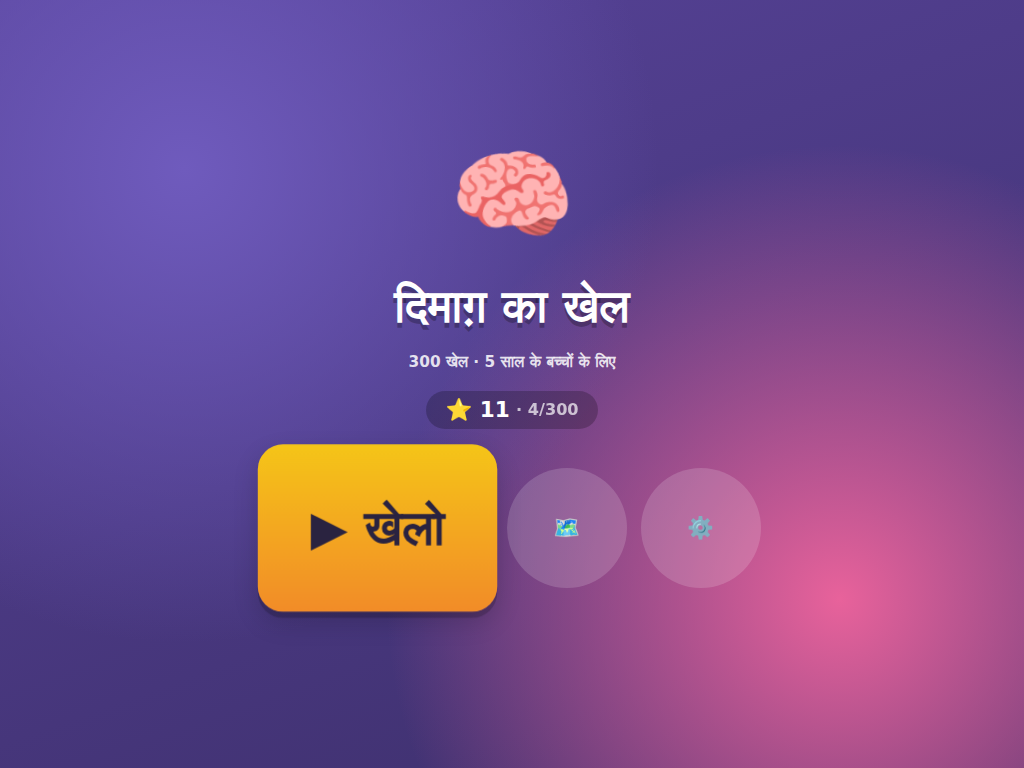
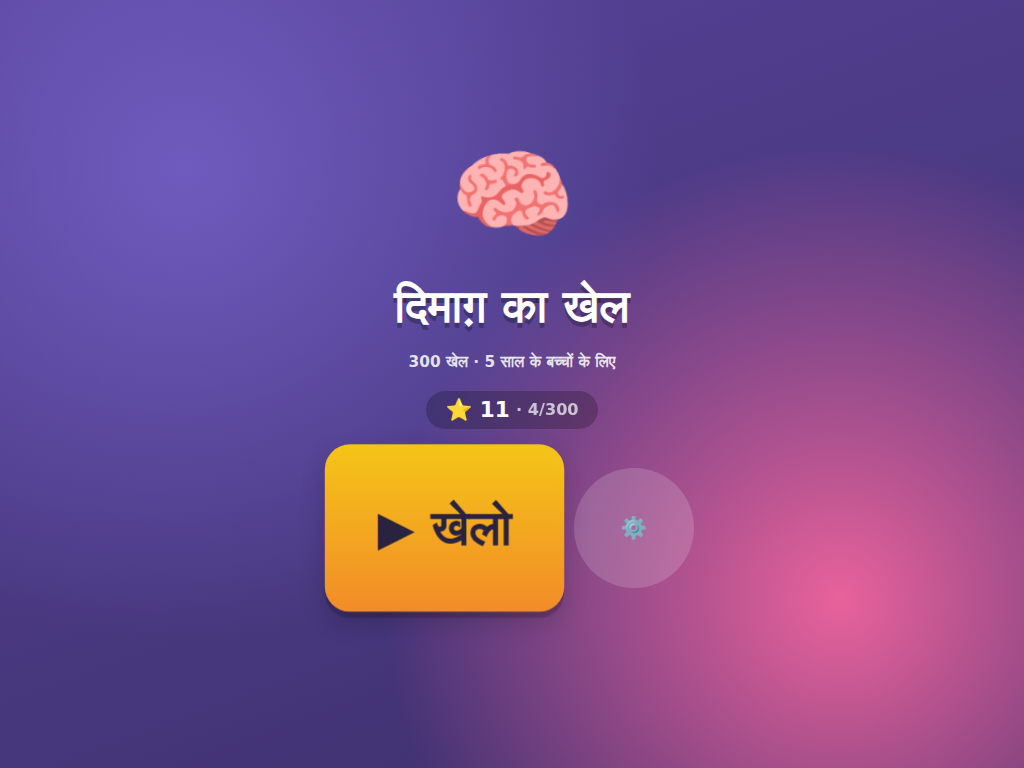
Open the category list from Play, not the next level
The big Play button jumped straight into the next unplayed level.
That is good for a child playing alone, but it meant the list of
ten categories was only reachable behind a small, unlabelled,
half-transparent map icon beside it — and a parent looking for
"what games are in here?" could not find it. Reported from real
use.

Play now opens the category list, and the map icon it duplicated
is gone, leaving the title screen with Play and the parent-gated
settings. firstUnplayedLevel() had no other caller and is removed.

The smoke test now walks the whole path a child takes — title to
categories to levels to a mounted game — and fails naming the step
that broke. Pointing Play at a dead route turns it red.

It also drives navigation through the app's own router rather than
assigning location.hash, which fires no hashchange when the hash
is already the target and left the first level never re-rendering.

Claude-Session: https://claude.ai/code/session_012WrVrUWsRAkZV34aQr8EfW

Changed region(s): [[0.25, 0.5625, 0.75, 0.8125]]

diff --git a/js/screens/hub.js b/js/screens/hub.js
@@ -1,19 +1,19 @@
 /* ============================================================
    hub.js — the title screen.
 
-   One giant Play button that resumes exactly where the child left
-   off, so a 5-year-old can start alone without reading anything.
+   One giant Play button that opens the list of game categories.
+   Sending the child straight into the next level skipped that list
+   entirely, and a parent looking for "what games are in here?"
+   could not find it behind a small map icon.
    ============================================================ */
 
 import { el, button, iconButton } from '../core/ui.js';
 import { t } from '../core/i18n.js';
 import { totalStars, completedCount } from '../core/state.js';
-import { firstUnplayedLevel, TOTAL_LEVELS } from '../core/catalog.js';
+import { TOTAL_LEVELS } from '../core/catalog.js';
 import { speak } from '../core/audio.js';
 
 export function hubScreen({ go }) {
-  const next = firstUnplayedLevel();
-
   const screen = el('div.screen.hub', {},
     el('div.hub__logo', { text: '🧠' }),
     el('h1.hub__title', { text: t('app.title') }),
@@ -24,8 +24,7 @@ export function hubScreen({ go }) {
         `  ·  ${completedCount()}/${TOTAL_LEVELS}`)),
 
     el('div.hub__actions', {},
-      button(`▶ ${t('app.play')}`, () => go(`#/level/${next.id}`), { cls: 'hub__play' }),
-      iconButton('🗺', () => go('#/map'), t('app.back'), 'btn--ghost'),
+      button(`▶ ${t('app.play')}`, () => go('#/map'), { cls: 'hub__play' }),
       iconButton('⚙', () => go('#/settings'), t('app.settings'), 'btn--ghost')));
 
   // Greet on arrival so a child who cannot read still knows what to do.

diff --git a/js/core/catalog.js b/js/core/catalog.js
@@ -110,10 +110,4 @@ export function isLevelUnlocked(level) {
   return isDone(prev.id);
 }
 
-/** The level the big Play button should jump to. */
-export function firstUnplayedLevel() {
-  const list = buildCatalog();
-  return list.find((l) => !isDone(l.id) && isLevelUnlocked(l)) || list[0];
-}
-
 export { TOTAL_LEVELS, WORLDS };

diff --git a/README.md b/README.md
@@ -34,6 +34,10 @@ offline, no ads, no purchases, no data collection.
 4. Browser के मेन्यू में **"Add to Home Screen"** दबाओ। अब ये एक ऐप जैसा
    खुलेगा — पूरी स्क्रीन, बिना इंटरनेट के भी।
 
+**खेल कैसे चुनें:** बड़ा **▶ खेलो** बटन दस श्रेणियों की सूची खोलता है —
+याददाश्त, सोच-समझ, गिनती, अक्षर, आकार, जोड़ी, ध्यान, उँगली का खेल, पैटर्न,
+महारत। हर श्रेणी में तीस खेल हैं।
+
 **अपने कंप्यूटर पर आज़माने के लिए:**
 
 ```bash
